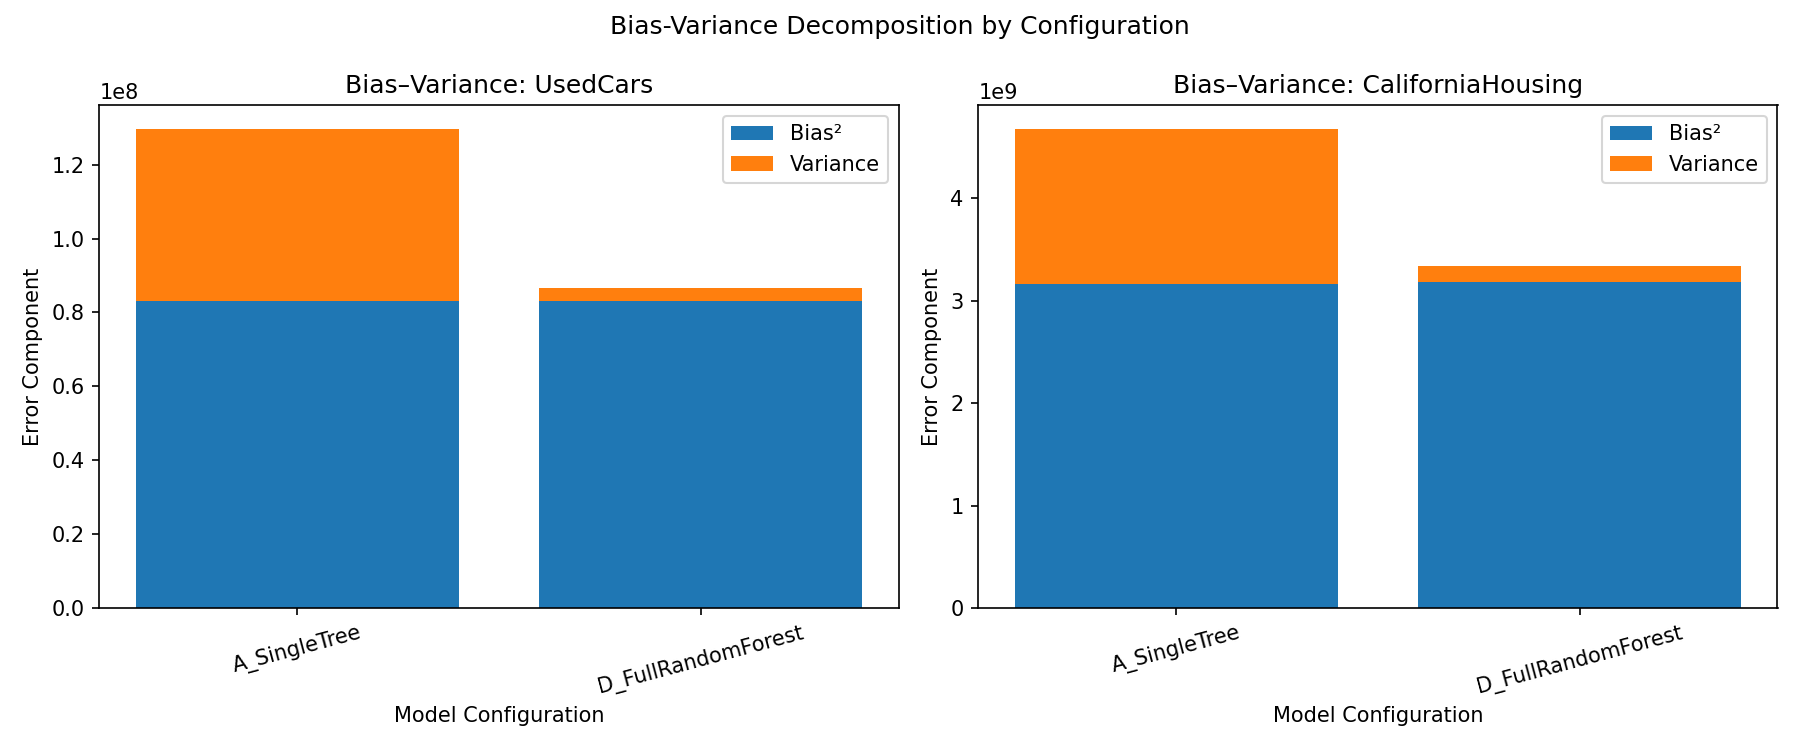
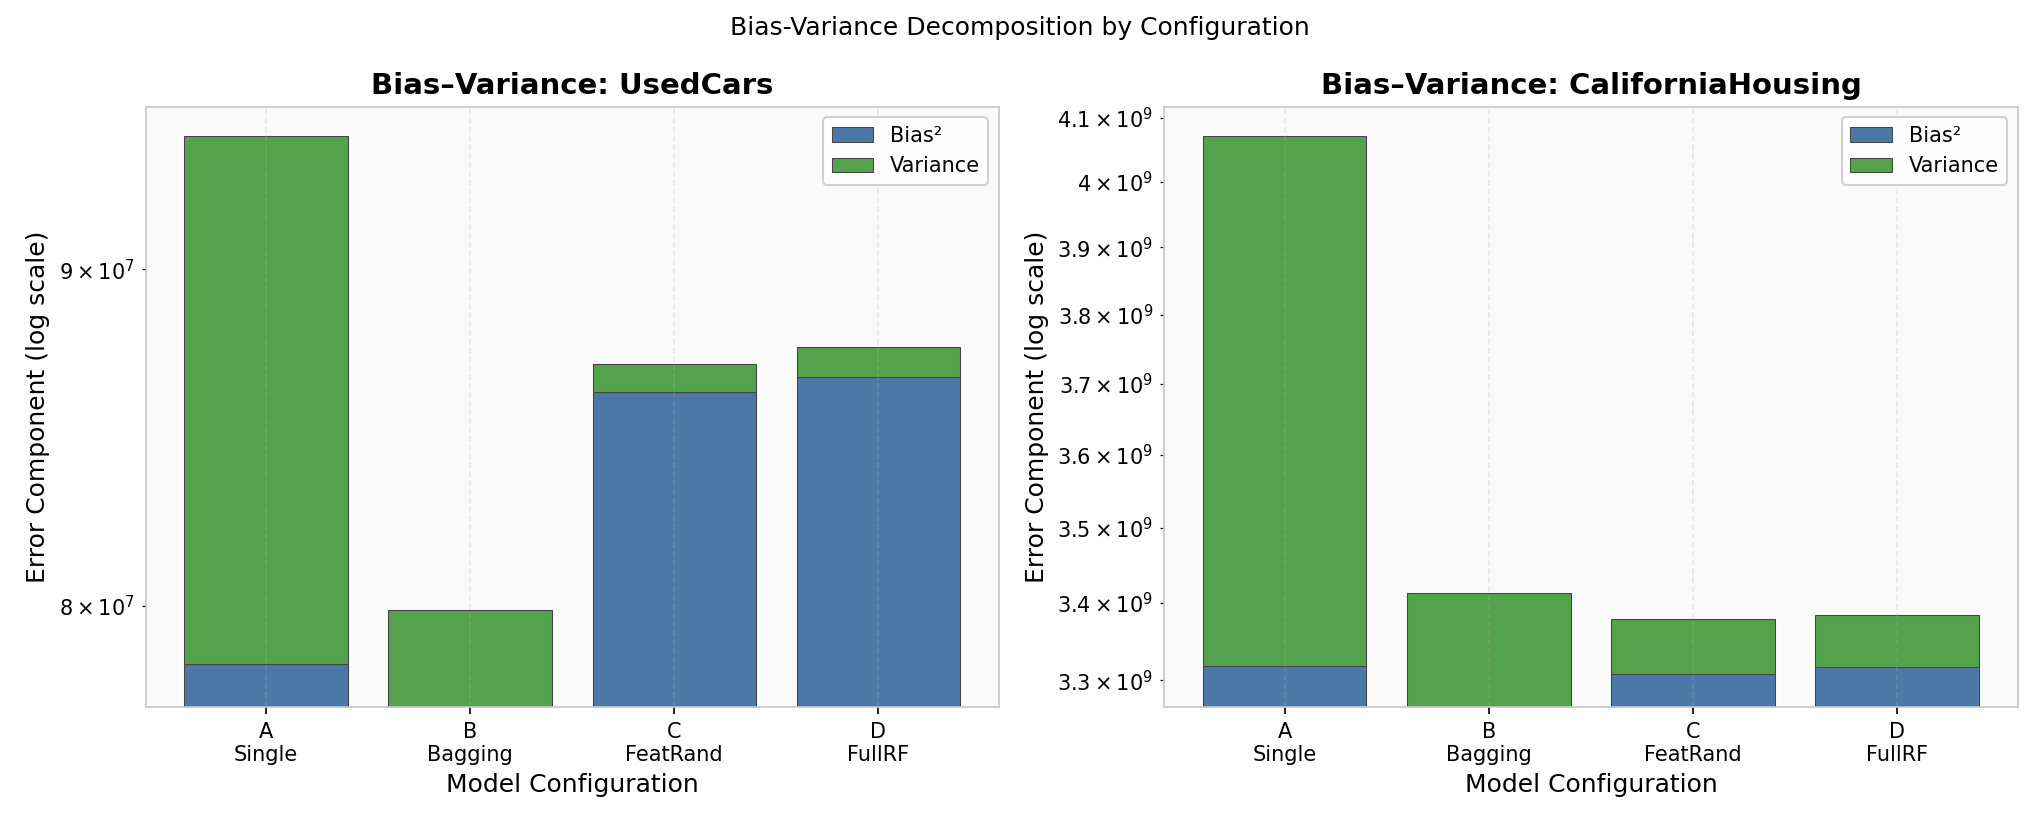
FIRST results + plots

diff --git a/project/plots/plot_results.py b/project/plots/plot_results.py
@@ -1,6 +1,7 @@
 from __future__ import annotations
 
 from pathlib import Path
+from typing import Optional
 
 import matplotlib.pyplot as plt
 import numpy as np
@@ -12,6 +13,40 @@ CONFIG_ORDER = [
     "C_FeatureRandOnly",
     "D_FullRandomForest",
 ]
+
+CONFIG_LABELS = {
+    "A_SingleTree": "A\nSingle",
+    "B_BaggingOnly": "B\nBagging",
+    "C_FeatureRandOnly": "C\nFeatRand",
+    "D_FullRandomForest": "D\nFullRF",
+}
+
+DATASET_COLORS = {
+    "UsedCars": "#4C78A8",
+    "CaliforniaHousing": "#F58518",
+}
+
+
+def _apply_style() -> None:
+    plt.style.use("default")
+    plt.rcParams.update(
+        {
+            "figure.facecolor": "white",
+            "axes.facecolor": "#FAFAFA",
+            "axes.edgecolor": "#C7C7C7",
+            "axes.grid": True,
+            "grid.alpha": 0.25,
+            "grid.linestyle": "--",
+            "axes.titleweight": "bold",
+            "axes.titlesize": 14,
+            "axes.labelsize": 12,
+            "xtick.labelsize": 10,
+            "ytick.labelsize": 10,
+            "legend.frameon": True,
+            "legend.framealpha": 0.9,
+            "legend.facecolor": "white",
+        }
+    )
 
 
 def _prepare(results_df: pd.DataFrame) -> tuple[list[str], list[str]]:
@@ -27,23 +62,52 @@ def _save(fig: plt.Figure, output_path: Path) -> None:
     plt.close(fig)
 
 
+def _annotate_bars(ax: plt.Axes, bars, fmt: str = "{:.3f}", rotation: int = 90) -> None:
+    for bar in bars:
+        h = bar.get_height()
+        ax.annotate(
+            fmt.format(h),
+            (bar.get_x() + bar.get_width() / 2, h),
+            textcoords="offset points",
+            xytext=(0, 4),
+            ha="center",
+            va="bottom",
+            fontsize=8,
+            rotation=rotation,
+            color="#333333",
+        )
+
+
 def plot_bar_r2(results_df: pd.DataFrame, output_dir: str = "project/results") -> Path:
+    _apply_style()
     datasets, configs = _prepare(results_df)
     x = np.arange(len(configs))
     width = 0.8 / max(1, len(datasets))
 
-    fig, ax = plt.subplots(figsize=(10, 5))
+    fig, ax = plt.subplots(figsize=(11, 6))
     for idx, dataset in enumerate(datasets):
         subset = results_df[results_df["dataset"] == dataset].set_index("config")
         means = [float(subset.loc[cfg, "mean_r2"]) for cfg in configs]
         stds = [float(subset.loc[cfg, "std_r2"]) for cfg in configs]
-        ax.bar(x + idx * width - 0.4 + width / 2, means, width=width, yerr=stds, capsize=4, label=dataset)
+        bars = ax.bar(
+            x + idx * width - 0.4 + width / 2,
+            means,
+            width=width,
+            yerr=stds,
+            capsize=4,
+            label=dataset,
+            color=DATASET_COLORS.get(dataset, None),
+            edgecolor="#444444",
+            linewidth=0.5,
+        )
+        _annotate_bars(ax, bars, fmt="{:.3f}", rotation=90)
 
     ax.set_xticks(x)
-    ax.set_xticklabels(configs, rotation=15)
+    ax.set_xticklabels([CONFIG_LABELS.get(c, c) for c in configs])
     ax.set_xlabel("Model Configuration")
     ax.set_ylabel("Mean R²")
-    ax.set_title("Mean R² by Model Configuration")
+    ax.set_title("Ablation Performance: Mean R² (±1 SD across seeds)")
+    ax.set_ylim(0.55, max(0.80, float(results_df["mean_r2"].max()) + 0.03))
     ax.legend()
 
     out = Path(output_dir) / "bar_r2.png"
@@ -52,22 +116,34 @@ def plot_bar_r2(results_df: pd.DataFrame, output_dir: str = "project/results") -
 
 
 def plot_bar_rmse(results_df: pd.DataFrame, output_dir: str = "project/results") -> Path:
+    _apply_style()
     datasets, configs = _prepare(results_df)
     x = np.arange(len(configs))
     width = 0.8 / max(1, len(datasets))
 
-    fig, ax = plt.subplots(figsize=(10, 5))
+    fig, ax = plt.subplots(figsize=(11, 6))
     for idx, dataset in enumerate(datasets):
         subset = results_df[results_df["dataset"] == dataset].set_index("config")
         means = [float(subset.loc[cfg, "mean_rmse"]) for cfg in configs]
         stds = [float(subset.loc[cfg, "std_rmse"]) for cfg in configs]
-        ax.bar(x + idx * width - 0.4 + width / 2, means, width=width, yerr=stds, capsize=4, label=dataset)
+        bars = ax.bar(
+            x + idx * width - 0.4 + width / 2,
+            means,
+            width=width,
+            yerr=stds,
+            capsize=4,
+            label=dataset,
+            color=DATASET_COLORS.get(dataset, None),
+            edgecolor="#444444",
+            linewidth=0.5,
+        )
+        _annotate_bars(ax, bars, fmt="{:.0f}", rotation=90)
 
     ax.set_xticks(x)
-    ax.set_xticklabels(configs, rotation=15)
+    ax.set_xticklabels([CONFIG_LABELS.get(c, c) for c in configs])
     ax.set_xlabel("Model Configuration")
     ax.set_ylabel("Mean RMSE")
-    ax.set_title("Mean RMSE by Model Configuration")
+    ax.set_title("Ablation Performance: Mean RMSE (±1 SD across seeds)")
     ax.legend()
 
     out = Path(output_dir) / "bar_rmse.png"
@@ -79,10 +155,11 @@ def plot_bias_variance_decomposition(
     results_df: pd.DataFrame,
     output_dir: str = "project/results",
 ) -> Path:
+    _apply_style()
     datasets, configs = _prepare(results_df)
     n_datasets = max(1, len(datasets))
 
-    fig, axes = plt.subplots(1, n_datasets, figsize=(6 * n_datasets, 5), squeeze=False)
+    fig, axes = plt.subplots(1, n_datasets, figsize=(6.8 * n_datasets, 5.5), squeeze=False)
 
     for idx, dataset in enumerate(datasets):
         ax = axes[0, idx]
@@ -91,12 +168,13 @@ def plot_bias_variance_decomposition(
         var_vals = np.array([float(subset.loc[cfg, "variance"]) for cfg in configs], dtype=np.float64)
         x = np.arange(len(configs))
 
-        ax.bar(x, bias_vals, label="Bias²")
-        ax.bar(x, var_vals, bottom=bias_vals, label="Variance")
+        ax.bar(x, bias_vals, label="Bias²", color="#4C78A8", edgecolor="#444444", linewidth=0.5)
+        ax.bar(x, var_vals, bottom=bias_vals, label="Variance", color="#54A24B", edgecolor="#444444", linewidth=0.5)
         ax.set_xticks(x)
-        ax.set_xticklabels(configs, rotation=15)
+        ax.set_xticklabels([CONFIG_LABELS.get(c, c) for c in configs])
         ax.set_xlabel("Model Configuration")
-        ax.set_ylabel("Error Component")
+        ax.set_ylabel("Error Component (log scale)")
+        ax.set_yscale("log")
         ax.set_title(f"Bias–Variance: {dataset}")
         ax.legend()
 
@@ -107,22 +185,35 @@ def plot_bias_variance_decomposition(
 
 
 def plot_training_time(results_df: pd.DataFrame, output_dir: str = "project/results") -> Path:
+    _apply_style()
     datasets, configs = _prepare(results_df)
     x = np.arange(len(configs))
     width = 0.8 / max(1, len(datasets))
 
-    fig, ax = plt.subplots(figsize=(10, 5))
+    fig, ax = plt.subplots(figsize=(11, 6))
     for idx, dataset in enumerate(datasets):
         subset = results_df[results_df["dataset"] == dataset].set_index("config")
         means = [float(subset.loc[cfg, "mean_train_time"]) for cfg in configs]
         stds = [float(subset.loc[cfg, "std_train_time"]) for cfg in configs]
-        ax.bar(x + idx * width - 0.4 + width / 2, means, width=width, yerr=stds, capsize=4, label=dataset)
+        bars = ax.bar(
+            x + idx * width - 0.4 + width / 2,
+            means,
+            width=width,
+            yerr=stds,
+            capsize=4,
+            label=dataset,
+            color=DATASET_COLORS.get(dataset, None),
+            edgecolor="#444444",
+            linewidth=0.5,
+        )
+        _annotate_bars(ax, bars, fmt="{:.0f}", rotation=90)
 
     ax.set_xticks(x)
-    ax.set_xticklabels(configs, rotation=15)
+    ax.set_xticklabels([CONFIG_LABELS.get(c, c) for c in configs])
     ax.set_xlabel("Model Configuration")
-    ax.set_ylabel("Mean Training Time (s)")
-    ax.set_title("Mean Training Time by Model Configuration")
+    ax.set_ylabel("Mean Training Time (s, log scale)")
+    ax.set_title("Runtime Cost by Configuration")
+    ax.set_yscale("log")
     ax.legend()
 
     out = Path(output_dir) / "training_time.png"
@@ -130,17 +221,81 @@ def plot_training_time(results_df: pd.DataFrame, output_dir: str = "project/resu
     return out
 
 
+def plot_seed_stability(seed_results_df: pd.DataFrame, output_dir: str = "project/results") -> Path:
+    _apply_style()
+    datasets = list(dict.fromkeys(seed_results_df["dataset"].tolist()))
+    configs = [cfg for cfg in CONFIG_ORDER if cfg in set(seed_results_df["config"].tolist())]
+
+    fig, axes = plt.subplots(2, len(datasets), figsize=(6.5 * len(datasets), 8), squeeze=False)
+    for col, dataset in enumerate(datasets):
+        subset = seed_results_df[seed_results_df["dataset"] == dataset]
+
+        r2_data = [subset[subset["config"] == cfg]["r2"].to_numpy() for cfg in configs]
+        rmse_data = [subset[subset["config"] == cfg]["rmse"].to_numpy() for cfg in configs]
+
+        axes[0, col].boxplot(r2_data, tick_labels=[CONFIG_LABELS.get(c, c) for c in configs], showfliers=False)
+        axes[0, col].set_title(f"Seed Stability (R²): {dataset}")
+        axes[0, col].set_ylabel("R²")
+
+        axes[1, col].boxplot(rmse_data, tick_labels=[CONFIG_LABELS.get(c, c) for c in configs], showfliers=False)
+        axes[1, col].set_title(f"Seed Stability (RMSE): {dataset}")
+        axes[1, col].set_ylabel("RMSE")
+
+    fig.suptitle("Across-Seed Stability by Configuration", fontsize=15, fontweight="bold")
+    out = Path(output_dir) / "seed_stability.png"
+    _save(fig, out)
+    return out
+
+
+def plot_efficiency_frontier(results_df: pd.DataFrame, output_dir: str = "project/results") -> Path:
+    _apply_style()
+    datasets = list(dict.fromkeys(results_df["dataset"].tolist()))
+
+    fig, axes = plt.subplots(1, len(datasets), figsize=(6.5 * len(datasets), 5.2), squeeze=False)
+    for idx, dataset in enumerate(datasets):
+        ax = axes[0, idx]
+        subset = results_df[results_df["dataset"] == dataset]
+
+        for _, row in subset.iterrows():
+            cfg = str(row["config"])
+            ax.scatter(float(row["mean_train_time"]), float(row["mean_r2"]), s=110)
+            ax.annotate(CONFIG_LABELS.get(cfg, cfg).replace("\n", " "), (float(row["mean_train_time"]), float(row["mean_r2"])), textcoords="offset points", xytext=(6, 5), fontsize=9)
+
+        ax.set_xscale("log")
+        ax.set_xlabel("Mean train time (s, log)")
+        ax.set_ylabel("Mean R²")
+        ax.set_title(f"Accuracy vs Runtime: {dataset}")
+
+    fig.suptitle("Efficiency Frontier (Higher R², Lower Time)", fontsize=15, fontweight="bold")
+    out = Path(output_dir) / "efficiency_frontier.png"
+    _save(fig, out)
+    return out
+
+
 def generate_all_plots(
     results_df: pd.DataFrame | None = None,
+    seed_results_df: Optional[pd.DataFrame] = None,
     results_csv_path: str = "project/results/ablation_results.csv",
+    seed_results_csv_path: str | None = None,
     output_dir: str = "project/results",
 ) -> list[Path]:
     if results_df is None:
         results_df = pd.read_csv(results_csv_path)
 
-    return [
+    if seed_results_df is None and seed_results_csv_path is not None:
+        seed_path = Path(seed_results_csv_path)
+        if seed_path.exists():
+            seed_results_df = pd.read_csv(seed_path)
+
+    outputs = [
         plot_bar_r2(results_df, output_dir=output_dir),
         plot_bar_rmse(results_df, output_dir=output_dir),
         plot_bias_variance_decomposition(results_df, output_dir=output_dir),
         plot_training_time(results_df, output_dir=output_dir),
+        plot_efficiency_frontier(results_df, output_dir=output_dir),
     ]
+
+    if seed_results_df is not None and not seed_results_df.empty:
+        outputs.append(plot_seed_stability(seed_results_df, output_dir=output_dir))
+
+    return outputs
